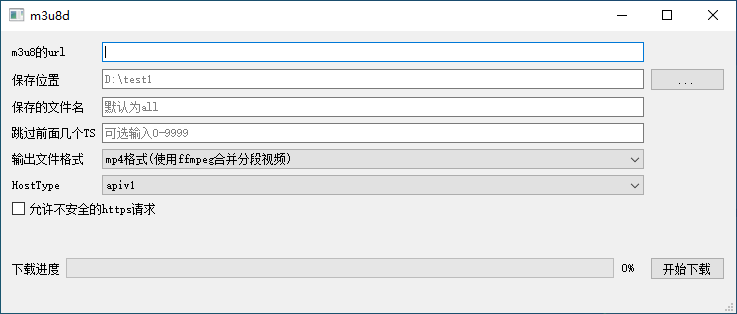
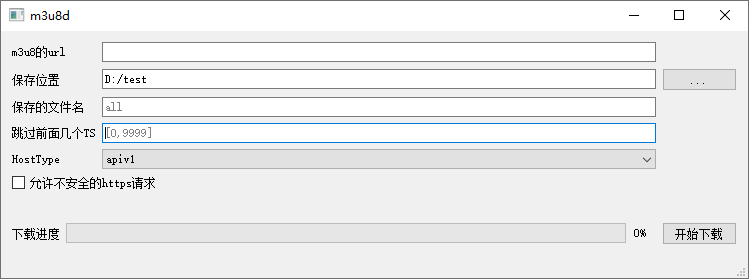
note

Changed region(s): [[0.0, 0.0, 1.0, 1.0], [0.0, 0.1434, 0.0936, 0.2007]]

diff --git a/README.md b/README.md
@@ -1,18 +1,15 @@
 ## m3u8d 一款m3u8下载工具
-* 提供windows图形界面(Qt), mac\linux命令行 
-* 可选使用ffmpeg转换格式为mp4
-* windows自带GUI界面的版本下载: [m3u8d_qt_v1.0_windows_amd64.exe](https://github.com/orestonce/m3u8d/releases/download/v1.0/m3u8d_qt_v1.0_windows_amd64.exe):
-
+* 提供windows图形界面(Qt), mac\linux命令行, linux支持arm和386 
+* 使用ffmpeg转换格式为mp4
+* windows自带GUI界面的版本下载: [m3u8d-qt_v1.1_windows_amd64.exe](https://github.com/orestonce/m3u8d/releases/download/v1.1/m3u8d-qt_v1.1_windows_amd64.exe):
     ![](m3u8d-qt/screenshot.png)
-* 全部版本下载, 包括windows命令行/windows图形界面/linux命令行/mac命令行: https://github.com/orestonce/m3u8d/releases    
+* 全部版本下载, 包括windows图形界面/linux命令行/mac命令行: https://github.com/orestonce/m3u8d/releases    
 
 ## 实现说明
 * download.go 大部分抄自 https://github.com/llychao/m3u8-downloader
-* 将ffmpeg直接编译进windows的二进制了,如果在PATH里没有找到ffmpeg.exe
-  又需要使用ffmpeg进行转码, 则自动将二进制里的ffmpeg解压到系统临时目录,然后使用.
-  因此windows版本的可执行文件达到了32MB, 带Qt ui的可执行文件达到了惊人的 50MB
-* linux/mac的二进制没有内置ffmpeg, 可执行文件小很多,约为 8.6MB
-* 支持不使用ffmpeg合并,直接将ts文件拼接起来
+* 将ffmpeg直接编译进windows/linux-arm/linux-386/darwin的二进制了.
+  转换mp4时,会自动将二进制里的ffmpeg解压到系统临时目录,然后使用.
+  因此linux/mac版本的可执行文件达到了32MB, 带Qt ui的可执行文件达到了惊人的 50MB
 * 支持跳过前面几个ts文件(一般是广告, 嘿嘿)
 * 程序会在下载保存目录创建:
     * downloading/ 目录, 用于存放正在下载的分段ts视频, 按照m3u8的url进行划分
